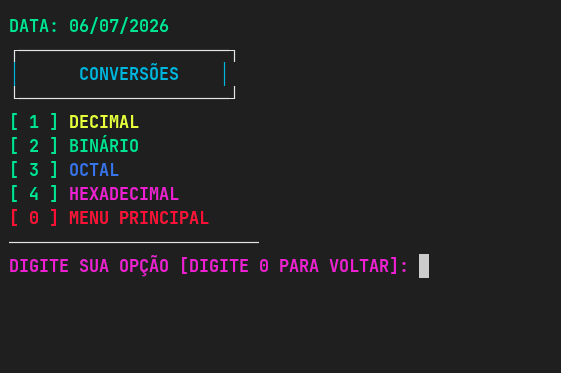
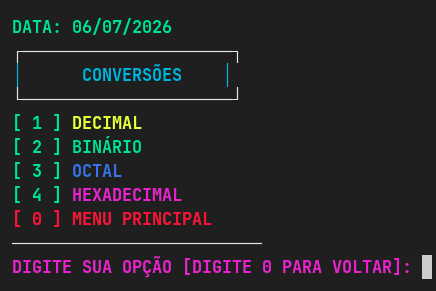
Update README.MD

Changed region(s): [[0.0, 0.0309, 0.7156, 0.7732], [0.0298, 0.8351, 1.0, 0.9588], [0.7454, 0.6804, 0.7752, 0.7423]]

diff --git a/numeros_binarios/README.md b/numeros_binarios/README.md
@@ -1,10 +1,44 @@
 # 🔢 Calculadora de Números Binários e Auxiliar de Lógica
 
 ![Python](https://img.shields.io/badge/Python-3.8+-blue.svg)
-![License](https://img.shields.io/badge/License-MIT-green.svg)
 ![CLI](https://img.shields.io/badge/Interface-CLI%20%2F%20Terminal-orange.svg)
 
+<p align="center">
+    <img src="images/menu.png" width="900" alt="Menu Principal">
+</p>
+
 Uma ferramenta interativa via linha de comando (CLI) desenvolvida para centralizar conversões entre bases numéricas, aritmética binária e auxiliar no estudo de estruturas lógicas e álgebra booleana.
+
+## 📑 Índice
+
+- [✨ Funcionalidades](#-funcionalidades)
+- [📌 Introdução](#-1-introdução)
+- [💡 Justificativa](#-2-justificativa)
+- [🎯 Objetivos](#-3-objetivos)
+- [⚙️ Escopo e Viabilidade Técnica](#️-4-escopo--viabilidade-técnica)
+- [📊 Análise de Prós e Contras](#-5-análise-de-prós-e-contras)
+- [🚀 Como Executar o Projeto](#-6-como-executar-o-projeto)
+- [📸 Demonstração do Sistema](#-demonstração-do-sistema)
+- [👨💻 Autores](#-autores)
+
+## ✨ Funcionalidades
+
+- 🔄 Conversão entre Decimal, Binário, Octal e Hexadecimal
+- ➕ Adição Binária
+- ➖ Subtração Binária
+- 📋 Geração de Tabelas-Verdade
+- 🗺️ Auxílio para Mapas de Karnaugh
+- 🎨 Interface colorida no terminal
+- ✅ Validação de entradas
+
+---
+
+## 💻 Tecnologias Utilizadas
+
+- **Python 3.8+** — Linguagem principal do projeto.
+- **truth-table-generator (ttg)** — Geração automática de tabelas-verdade.
+- **Git** — Controle de versão.
+- **GitHub** — Hospedagem e versionamento do código-fonte.
 
 ---
 
@@ -65,44 +99,146 @@ O projeto é altamente viável devido aos seguintes fatores:
 ---
 
 ## 🚀 6. Como Executar o Projeto
-## 📸 Demonstração do Sistema
 
-### Menu Principal
-![Menu Principal](images/menu.png)
-
-**Nesse momento o sistema pede para o usuário digitar a sua opção. Supomos ele escolheu a opção 1.**
-
-### Conversão:
-![Conversão Binária](images/conversao.png)
----
-### Operações Binárias 
-![Operação Binária](images/operacoes.png)
----
 ### Pré-requisitos 📝
-* Certifique-se de ter o **Python 3.8 ou superior** instalado em sua máquina
-* Instale o ttg na sua máquina
+* Certifique-se de ter o **Python 3.8 ou superior** instalado em sua máquina.
 
-### 💻 Como Instalar o ttg em Qualquer Sistema Operacional
-#### **🪟 Windows:**
-Abra o Prompt de Comando (CMD) ou o PowerShell e execute:
-
-    pip install truth-table-generator
-#### **🍎 Mac:**
-Abra o Terminal e garanta que está usando o gerenciador do Python 3:
-
-    pip3 install truth-table-generator
-#### **🐧 Linux:**
-
-    # 1 - Instale o suporte a ambientes virtuais (caso não tenha)
-    sudo apt update && sudo apt install python3-full -y
-
-    # 2 - Crie e ative o ambiente na pasta do projeto
-    python3 -m venv venv
-    source venv/bin/activate
-
-    # 3 - Instale a biblioteca com segurança
-    pip install truth-table-generator
 ### 1. Clonar o Repositório
-    ```bash
-    git clone [https://github.com/AlanSouza003/numeros_binarios.git](https://github.com/AlanSouza003/meus-projetos.git)
-    cd numeros_binarios
+Abra o terminal do seu computador e digite os comandos abaixo para baixar o projeto e acessar a pasta dele:
+
+```bash
+git clone https://github.com/AlanSouza003/numeros_binarios.git
+cd numeros_binarios
+```
+
+### 2. Instalar a biblioteca ttg (Dependência)
+Escolha o bloco de comandos correspondente ao seu sistema operacional:
+
+#### 🪟 **Windows**:
+Abra o **Prompt de Comando (CMD)** ou o **PowerShell e execute**:
+```bash
+pip install truth-table-generator
+```
+#### 🍎 **Mac**:
+Abra o **Terminal** e garanta que está usando o gerenciador do **Python 3**:
+```bash
+pip3 install truth-table-generator
+```
+#### 🐧 **Linux**:
+Abra o **Terminal** do Linux e configure o ambiente virtual para 
+instalar a biblioteca com segurança e isolada do sistema:
+```bash
+# 1 - Instale o suporte a ambientes virtuais (caso não tenha)
+sudo apt update && sudo apt install python3-full -y
+
+# 2 - Crie e ative o ambiente na pasta do projeto
+python3 -m venv venv
+source venv/bin/activate
+
+# 3 - Instale a biblioteca com segurança
+pip install truth-table-generator
+```
+### 3. Rodar o Programa
+Após concluir a instalação da biblioteca acima, basta iniciar o script principal:
+```bash
+python3 binarios.py
+```
+Ao executar esse comando, o menu principal da aplicação será exibido no terminal.
+
+## 📸 Demonstração do Sistema
+#### Menu Principal
+<p align="center">
+    <img src="images/menu.png" width="900" alt="Menu Principal">
+</p>
+
+* **Nesse momento o sistema pede para o usuário digitar a sua opção. Supomos que ele escolheu a opção 1.**
+
+#### Conversões Binárias
+<p align="center">
+    <img src="images/conversao.png" width="800" alt="Conversões Binárias">
+</p>
+
+* **O sistema apresenta ao usuário quatro opções de conversão entre bases numéricas.**
+
+    1. **Decimal**
+    2. **Binário**
+    3. **Octal**
+    4. **Hexadecimal**
+
+#### Conversão de Decimal para Binário
+<p align="center">
+    <img src="images/decimalparabinario.png" width="800" alt="Conversão de Decimal para Binário">
+</p>
+
+#### Operações Binárias
+<p align="center">
+    <img src="images/operacao.png" width="800" alt="Operações Binárias">
+</p>
+
+* **O sistema disponibiliza as opções de adição e subtração para realização dos cálculos**
+
+#### Menu de parcelas
+<p align="center">
+    <img src="images/parcelas.png" width="800" alt="Escolha da Quantidade de Parcelas">
+</p>
+
+* **O usuário escolhe a quantidade de parcelas**
+
+#### Adição com 2 Parcelas
+<p align="center">
+    <img src="images/adicao.png" width="800" alt="Adição Binária">
+</p>
+
+### Tabela-Verdade
+#### Escolha das proposições
+<p align="center">
+    <img src="images/proposicao.png" width="800" alt="Escolha das Proposições">
+</p>
+
+* **Neste menu, o usuário escolhe a quantidade de proposições que serão exibidas na tabela-verdade.**
+
+#### Proposição de A até C
+<p align="center">
+    <img src="images/deAateC.png" width="800" alt="Tabela-Verdade com Proposições A até C">
+</p>
+
+#### Expressões Booleanas
+<p align="center">
+    <img src="images/expressoes.png" width="800" alt="Expressões Booleanas">
+</p>
+
+* **Na aba de expressões booleanas, o sistema vai pedir para o usuário digitar a primeira e a segunda proposição. Depois vai perguntar qual operador ele deseja utilizar e também vai perguntar se a operação está negada, e por último até qual proposição o usuário deseja ir.**
+### Exibição da tabela com o valor negado
+<p align="center">
+    <img src="images/tabela.png" width="800" alt="Tabela-Verdade">
+</p>
+
+#### Menu do Mapa Karnaugh
+<p align="center">
+    <img src="images/menukarnaugh.png" width="800" alt="Menu do Mapa de Karnaugh">
+</p>
+
+* **O usuário escolhe a quantidade de variáveis para gerar o mapa de Karnaugh.**
+### Preenchendo o Mapa com 4 variáveis
+<p align="center">
+    <img src="images/variaveis.png" width="800" alt="Preenchimento do Mapa de Karnaugh">
+</p>
+
+* **Preenchendo o mapa**
+#### Mapa de Karnaugh
+<p align="center">
+    <img src="images/mapa.png" width="800" alt="Mapa de Karnaugh">
+</p>
+
+## 👨💻 Autores
+
+Desenvolvido por:
+
+- Alan Souza
+- Alexandre
+- Gabriel
+- Jovane
+- Thiago
+- Vinicius
+
+Este projeto foi desenvolvido como trabalho acadêmico, com o objetivo de auxiliar no estudo de sistemas de numeração, operações binárias, lógica booleana e mapas de Karnaugh.